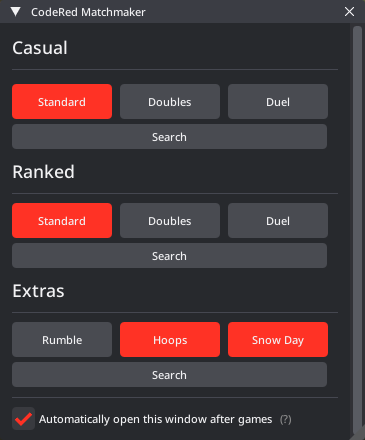
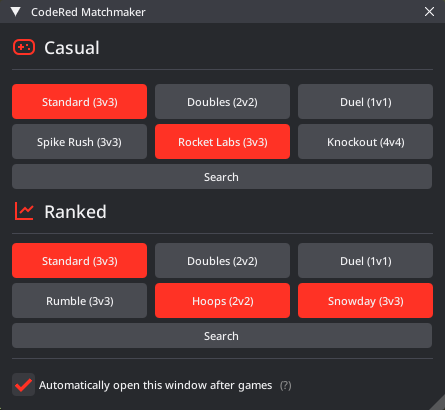
Initial Commit

diff --git a/documentation.html b/documentation.html
@@ -74,7 +74,7 @@
                     <li class="nav-item"><a class="nav-link scrollto" href="#item-4-10">Title Manager</a></li>
                     <li class="nav-item"><a class="nav-link scrollto" href="#item-4-9-5">Thumbnail Utilities</a></li>
                     <li class="nav-item"><a class="nav-link scrollto" href="#item-4-11">Session Tracker</a></li>
-                    <li class="nav-item"><a class="nav-link scrollto" href="#item-4-12">Trading Utilities</a></li>
+                    <!--<li class="nav-item"><a class="nav-link scrollto" href="#item-4-12">Trading Utilities</a></li>-->
                     <li class="nav-item"><a class="nav-link scrollto" href="#item-4-13">Training Enhancements</a></li>
                     <li class="nav-item section-title mt-3"><a class="nav-link scrollto" href="#section-5"><span class="theme-icon-holder me-2"><i class="fas fa-id-card"></i></span>Windows</a></li>
 				    <li class="nav-item"><a class="nav-link scrollto" href="#item-5-1">Changelog</a></li>
@@ -268,8 +268,12 @@
                             <table class="table table-bordered">
                                 <tbody>
                                     <tr>
-                                        <th class="theme-bg-light"><b>imgui_global_scale</b></th>
+                                        <th class="theme-bg-light"><b>imgui_global_scale &lt0.2-4.0&gt</b></th>
                                         <td>Change the global interface scaling for ImGui.</td>
+                                    </tr>
+                                    <tr>
+                                        <th class="theme-bg-light"><b>imgui_notification_corner &lt1-4&gt</b></th>
+                                        <td>The corner where ImGui popup notifications appear in.</td>
                                     </tr>
                                     <tr>
                                         <th class="theme-bg-light"><b>imgui_selected_style &ltarguments&gt</b></th>
@@ -813,7 +817,7 @@
                                         <td>The XYZ linear velocity to apply to your car on respawn in freeplay.</td>
                                     </tr>
                                     <tr>
-                                        <th class="theme-bg-light"><b>freeplay_speed</b></th>
+                                        <th class="theme-bg-light"><b>freeplay_speed &lt0.01-1.0&gt</b></th>
                                         <td>Custom game speed value to apply in freeplay.</td>
                                     </tr>
                                     <tr>
@@ -1626,18 +1630,6 @@
                             <table class="table table-bordered">
                                 <tbody>
                                     <tr>
-                                        <th class="theme-bg-light"><b>textures_refresh_images</b></th>
-                                        <td>Finds and loads all available image file paths from the textures folder.</td>
-                                    </tr>
-                                    <tr>
-                                        <th class="theme-bg-light"><b>textures_refresh_textures</b></th>
-                                        <td>Clears and reloads all custom unreal textures instantly.</td>
-                                    </tr>
-                                    <tr>
-                                        <th class="theme-bg-light"><b>textures_clear_textures</b></th>
-                                        <td>Marks all custom unreal textures to be reloaded.</td>
-                                    </tr>
-                                    <tr>
                                         <th class="theme-bg-light"><b>textures_refresh_tints</b></th>
                                         <td>Marks all custom unreal textures that require a color tint to be reapplied.</td>
                                     </tr>
@@ -1786,46 +1778,6 @@
                                     <tr>
                                         <th class="theme-bg-light"><b>tracker_notify_skill &lttrue-false&gt</b></th>
                                         <td>Display a notification when your skill rating has been updated.</td>
-                                    </tr>
-                                </tbody>
-                            </table>
-                        </div>
-                    </section>
-
-                    <section class="docs-section" id="item-4-12">
-                        <h2 class="section-heading">Trading Utilities</h2>
-                        <div class="simplelightbox-gallery row mb-3">
-                            <div class="col-12 col-md-4 mb-3">
-                                <a href="assets/images/modules/trading-1.png"><img class="figure-img img-fluid shadow rounded" src="assets/images/modules/trading-1.png" alt="" title=""/></a>
-                            </div>
-                        </div>
-                    
-                        <h3>Commands</h3>
-                        <div class="table-responsive my-4">
-                            <table class="table table-bordered">
-                                <tbody>
-                                    <tr>
-                                        <th class="theme-bg-light"><b>trade_cancel</b></th>
-                                        <td>Cancels/closes any trade window that is currently open.</td>
-                                    </tr>
-                                </tbody>
-                            </table>
-                        </div>
-                        <h3>Settings</h3>
-                        <div class="table-responsive my-4">
-                            <table class="table table-bordered">
-                                <tbody>
-                                    <tr>
-                                        <th class="theme-bg-light"><b>trade_guid_format &lt0-5&gt</b></th>
-                                        <td>The format trade guids are exported as when logging trades.</td>
-                                    </tr>
-                                    <tr>
-                                        <th class="theme-bg-light"><b>trade_logging &lttrue-false&gt</b></th>
-                                        <td>Automatically log player to player trades to offline files.</td>
-                                    </tr>
-                                    <tr>
-                                        <th class="theme-bg-light"><b>trade_scam_check &lttrue-false&gt</b></th>
-                                        <td>Automatically search \"TradeDB.net\" with the person you're trading with for scammer reports.</td>
                                     </tr>
                                 </tbody>
                             </table>

diff --git a/changelog.html b/changelog.html
@@ -53,6 +53,7 @@
 		    <nav id="docs-nav" class="docs-nav navbar">
 			    <ul class="section-items list-unstyled nav flex-column pb-3">
                     <li class="nav-item section-title mt-3"><a class="nav-link scrollto" href="#section-2"><span class="theme-icon-holder me-2"><i class="fas fa-book"></i></span>Changelog (Alpha)</a></li>
+                    <li class="nav-item"><a class="nav-link scrollto" href="#item-2-9-4">Version 1.9.4</a></li>
                     <li class="nav-item"><a class="nav-link scrollto" href="#item-2-9-3">Version 1.9.3</a></li>
                     <li class="nav-item"><a class="nav-link scrollto" href="#item-2-9-2">Version 1.9.2</a></li>
                     <li class="nav-item"><a class="nav-link scrollto" href="#item-2-9-1">Version 1.9.1</a></li>
@@ -187,6 +188,19 @@
 		    <div class="container">
 			    <article class="docs-article" id="section-2">
                     <h1 class="docs-heading">Changelog (Alpha)</h1>
+
+                            <h2 class="section-heading">Version 1.9.4 (December 8th 2023)</h2>
+                            <h5>- Remade all the custom example playlist textures to match the games new UI.</h5>
+                            <h5>- Remade the matchmaker window to be fully dynamic, you can now search limited time events and rotating competitive playlists that match the games new UI.</h5>
+                            <h5>- You can now change where notifications appear with the `imgui_notification_corner` setting. 1 is top right, 2 is top left, 3 is bottom left, and 4 is bottom right.</h5>
+                            <h5>- The gamestate debugger can now be repositioned just like the session tracker, hold ctrl and double right click on the window for options.</h5>
+                            <h5>- Fixed garage profiles sometimes not applying fully when first loading into freeplay or custom training packs.</h5>
+                            <h5>- Fixed the population stats setting not displaying the correct numbers, it was adding the wrong playlists together that you had selected.</h5>
+                            <h5>- Fixed mmr gain and losses showing raw html in playlist descriptions, thanks for removing colored text Psyonix...</h5>
+                            <h5>- Fixed custom playlist info and mmr sometimes not applying on the main menu if you switched between menus.</h5>
+                            <h5>- Fixed the session tracker and gamestate windows showing your cursor on screen due to the last ImGui update.</h5>
+                            <h5>- Other internal improvements and bug fixes.</h5>    
+                        </section>
 
                         <section class="docs-section" id="item-2-9-3">
                             <h2 class="section-heading">Version 1.9.3 (December 6th 2023)</h2>
